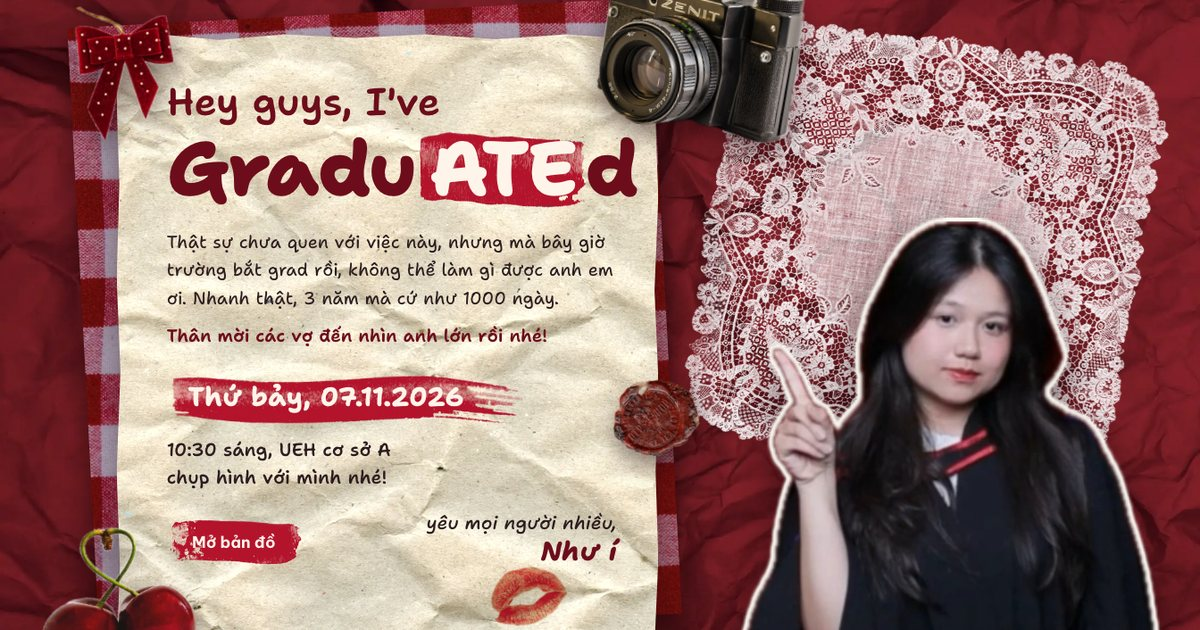
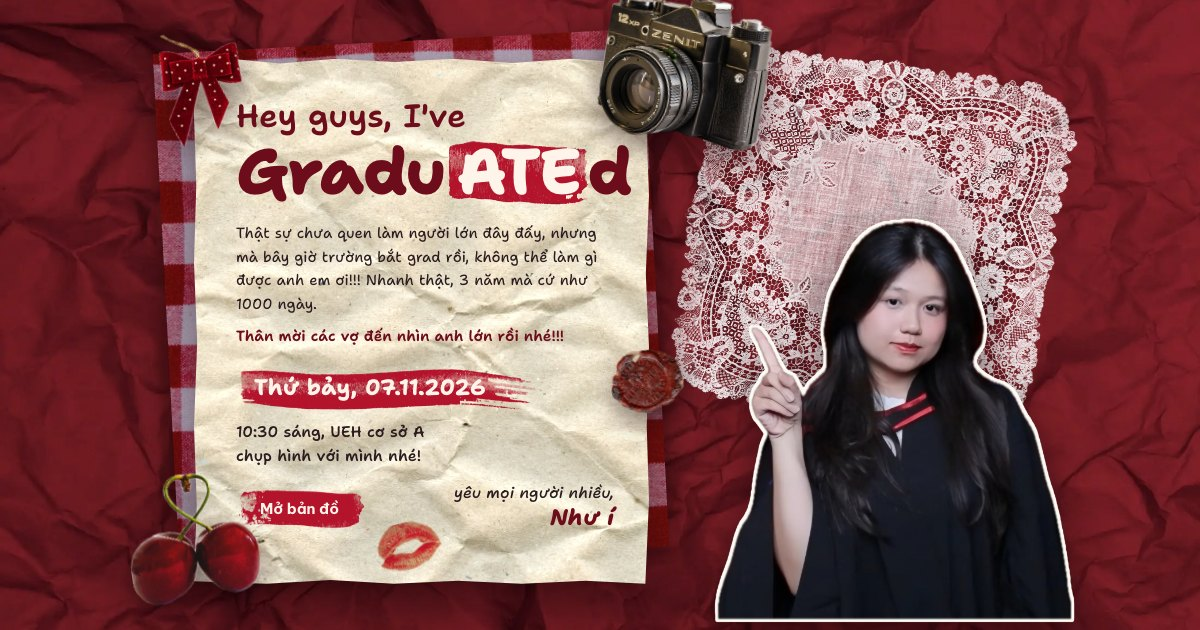
Sharper portrait, SQLite guestbook, and the client's new copy
- Guestbook now saves to a Cloudflare Worker + D1 (SQLite) instead of a Google Sheet
- Portrait re-cut from a 4x upscale with a baked-in white sticker border
- Copy updated from the 22.10 doc edit; friends' photos moved to the clothesline
- Footer credits and cherries removed

diff --git a/index.html b/index.html
@@ -36,8 +36,8 @@
             <span class="hero__hey">Hey guys, I've</span>
             <span class="hero__grad">Gradu<span class="brush-ate">ATE</span>d</span>
           </h1>
-          <p class="hero__note">Thật sự chưa quen với việc này, nhưng mà bây giờ trường bắt grad rồi, không thể làm gì được anh em ơi. Nhanh thật, 3 năm mà cứ như 1000 ngày.</p>
-          <p class="hero__invite">Thân mời các vợ đến nhìn anh lớn rồi nhé!</p>
+          <p class="hero__note">Thật sự chưa quen làm người lớn đây đấy, nhưng mà bây giờ trường bắt grad rồi, không thể làm gì được anh em ơi!!! Nhanh thật, 3 năm mà cứ như 1000 ngày.</p>
+          <p class="hero__invite">Thân mời các vợ đến nhìn anh lớn rồi nhé!!!</p>
           <p class="hero__date"><span class="brush-long">Thứ bảy, 07.11.2026</span></p>
           <p class="hero__when">10:30 sáng, UEH cơ sở A<br>chụp hình với mình nhé!</p>
           <div class="hero__foot">
@@ -53,7 +53,7 @@
       </div>
       <div class="hero__portrait">
         <img class="hero__lace" src="img/lace.webp" alt="" width="1000" height="946">
-        <img class="hero__sticker sticker" src="img/nhuy-cutout.webp" alt="Như í mặc áo cử nhân, chỉ tay lên" width="517" height="582">
+        <img class="hero__sticker sticker" src="img/nhuy-cutout.webp" alt="Như í mặc áo cử nhân, chỉ tay lên" width="1266" height="1422">
       </div>
     </div>
   </header>
@@ -63,7 +63,7 @@
     <div class="memories__track">
       <header class="memories__head">
         <h2 id="mem-title" class="memories__title">Nhớ lắm…</h2>
-        <p class="memories__lead">Thời gian đi học chắc được 1 năm, vậy mà cũng grad rồi. Chất không các vợ, ahihi.</p>
+        <p class="memories__lead">Thời gian đi học chắc được 1 năm, vậy mà anh cũng grad rồi. Chất không các vợ, yeyeyeye!</p>
       </header>
       <div class="line-scroll" tabindex="0" role="region" aria-label="Những điều Như í nhớ, kèm ảnh photobooth">
       <ul class="line">
@@ -76,7 +76,7 @@
         </li>
         <li class="hang hang--card hang--cord" style="--d: 6">
           <img class="peg" src="img/peg-3.webp" alt="" width="92" height="300">
-          <div class="card paper-cream"><p>Nhớ lắm mỗi thứ hai và thứ tư chạy đôn chạy đáo giữa 29 Lê Duẩn với 196 Trần Quang Khải</p></div>
+          <div class="card paper-cream"><p>Nhớ lắm mỗi lần cúp học đi làm (hoặc chơi)</p></div>
         </li>
         <li class="hang hang--booth">
           <img class="peg" src="img/peg-2.webp" alt="" width="135" height="300">
@@ -94,6 +94,10 @@
         </li>
         <li class="hang hang--tag hang--cord" style="--d: 6">
           <div class="tag"><p><span class="tag__l1">Nhớ lắm</span> <span class="tag__l2">bánh mì cổng trường</span></p></div>
+        </li>
+        <li class="hang hang--polaroid">
+          <img class="peg" src="img/peg-2.webp" alt="" width="135" height="300">
+          <div class="swing"><figure class="polaroid"><img src="img/crew-minnie.webp" alt="Như í và bạn bè đeo bờm Minnie, vương miện, tạo dáng trái tim" width="1200" height="798" loading="lazy"></figure></div>
         </li>
         <li class="hang hang--strip">
           <img class="peg" src="img/peg-1.webp" alt="" width="132" height="300">
@@ -114,11 +118,16 @@
           <img class="peg" src="img/peg-3.webp" alt="" width="92" height="300">
           <div class="card paper-cream"><p>Nhớ lắm những anh em đã điểm danh dùm bé</p></div>
         </li>
+        <li class="hang hang--polaroid">
+          <img class="peg" src="img/peg-2.webp" alt="" width="135" height="300">
+          <div class="swing"><figure class="polaroid"><img src="img/night-five.webp" alt="Năm bạn giơ tay chữ V vào buổi tối" width="1200" height="674" loading="lazy"></figure></div>
+        </li>
         <li class="hang hang--card hang--cord hang--finale" style="--d: 3">
           <img class="peg" src="img/peg-1.webp" alt="" width="132" height="300">
           <div class="card card--lined card--big">
             <p>Nhớ lắm những người đã đồng hành cùng em qua từng chapter trong hành trình này.</p>
-            <p class="card__love"><span class="brush-long">Em thật sự rất yêu mọi người, hihi</span></p>
+            <p class="card__love"><span class="brush-long">Em thật sự rất yêu mọi người, hihihaha</span></p>
+            <p class="card__aside">ngày không meta</p>
           </div>
         </li>
       </ul>
@@ -134,30 +143,31 @@
         <div class="thanks__letter" data-reveal>
           <div class="sheet" aria-hidden="true"><div class="sheet__paper paper-cream deckle"></div></div>
           <div class="thanks__copy">
-            <p>Well, thật ra lúc đầu lên đại học mình không expect sẽ có thêm được nhiều bạn thân, vì hết 3 năm maybe rồi chúng ta sẽ không còn nói chuyện với nhau nữa.</p>
-            <p>Nhưng mà well, looking back, mình đã có nhiều mối quan hệ rất chất đấy nhé. Thật lòng em/mình rất rất là quý mọi người luôn ấy.</p>
+            <p>Well, thật ra lúc đầu lên đại học mình không expect sẽ có thêm được nhiều bạn thân, vì mình nghĩ hết 3 năm maybe rồi ai về nhà nấy, mỗi người một nơi đi.</p>
+            <p>But… well, looking back, mình đã có nhiều mối quan hệ rất chất đấy nhé. Thật lòng em/mình rất rất là quý mọi người lắm lắm luôn í. Cảm ơn mọi người đã luôn giúp đỡ và yêu thương em.</p>
+            <p>Tuổi 20 mình đã từng viết “my greatest wealth in life is being loved”, và tuổi 21, trộm vía, mình vẫn thấy nó đúng quá à.</p>
             <p>Cảm ơn những người dưới đây, và rất rất nhiều người bạn khác đã làm nên hành trình này với em.</p>
-            <p class="thanks__last">Em thật sự rất rất biết ơn mọi người nhiều nhiều lắm!</p>
+            <p class="thanks__last">I'm fucking grateful!</p>
           </div>
           <img class="thanks__bow obj" src="img/bow-velvet-2.webp" alt="" width="295" height="380" loading="lazy">
         </div>
-        <div class="thanks__photos" data-reveal>
-          <figure class="polaroid polaroid--a"><img src="img/crew-minnie.webp" alt="Như í và bạn bè đeo bờm Minnie, vương miện, tạo dáng trái tim" width="1200" height="798" loading="lazy"></figure>
-          <figure class="polaroid polaroid--b"><img src="img/night-five.webp" alt="Năm bạn giơ tay chữ V vào buổi tối" width="1200" height="674" loading="lazy"></figure>
+        <div class="thanks__keepsake" data-reveal>
+          <figure class="polaroid thanks__self"><img src="img/photo-portrait.webp" alt="Như í mặc áo cử nhân, chỉ tay lên" width="1017" height="1389" loading="lazy"></figure>
           <img class="thanks__cherries obj" src="img/cherries.webp" alt="" width="265" height="420" loading="lazy">
           <img class="thanks__konica obj" src="img/camera-konica.webp" alt="" width="385" height="520" loading="lazy">
         </div>
       </div>
       <ul class="people" aria-label="Những người Như í muốn cảm ơn">
-        <li class="note note--kraft" data-reveal><h3>Các gia đình</h3><p>Mí Mí và Wí Wí</p></li>
-        <li class="note note--cream" data-reveal><h3>Các bạn yêu nhóm Đà Lạt</h3><p>Su, Wan, Vjt, Hằng</p></li>
-        <li class="note note--lined" data-reveal><h3>Anh em PMK</h3><p>Trúc, Tkhoa, Bthu, Vythu, Tđoan, Kathy</p></li>
+        <li class="note note--white" data-reveal><h3>Ba mẹ</h3><p>và my thằng anh</p></li>
+        <li class="note note--kraft" data-reveal><h3>Gia đình</h3><p>Mí Mí và Wí Wí</p></li>
+        <li class="note note--cream" data-reveal><h3>Các bạn yêu nhóm 6 và ồn</h3><p>Su, Wan, Vjt, Hằng</p></li>
+        <li class="note note--lined" data-reveal><h3>Anh em PMK chất</h3><p>Trúc, Tkhoa, Bthu, Vythu, Tđoan, Kathy</p></li>
         <li class="note note--white" data-reveal><h3>Nhóm anh chị khỉ già</h3><p>chị Băng, chị Thảo, anh Nam</p></li>
         <li class="note note--cream" data-reveal><h3>VL yêu</h3><p>HAT, cô Vanh, bé Su, bé Nhi</p></li>
         <li class="note note--kraft" data-reveal><h3>29 NVM</h3><p>anh Nguyên, chị Bi yêu, Thuý Vi, chị Lanhh</p></li>
         <li class="note note--white" data-reveal><h3>Hội bịp thủ</h3></li>
         <li class="note note--lined" data-reveal><h3>Anh coder ở công ty S</h3></li>
-        <li class="note note--cream" data-reveal><h3>Anh chị đồng nghiệp</h3><p>ở xí nghiệp S, W&nbsp;&amp;&nbsp;P</p></li>
+        <li class="note note--cream" data-reveal><h3>Anh chị và các bạn đồng nghiệp</h3><p>ở xí nghiệp S, W&nbsp;&amp;&nbsp;P</p></li>
         <li class="note note--kraft" data-reveal><h3>Nhà Trọ Họ Nguyễn</h3></li>
       </ul>
     </div>
@@ -168,7 +178,7 @@
     <div class="wrap invite__grid">
       <div class="invite__camera" data-reveal>
         <img class="invite__lace" src="img/lace.webp" alt="" width="1000" height="946" loading="lazy">
-        <figure class="invite__print polaroid"><img src="img/photo-portrait.webp" alt="Ảnh Như í mặc áo cử nhân trước rèm đỏ" width="670" height="922" loading="lazy"></figure>
+        <figure class="invite__print polaroid"><img src="img/photo-portrait.webp" alt="Ảnh Như í mặc áo cử nhân trước rèm đỏ" width="1017" height="1389" loading="lazy"></figure>
         <img class="invite__polaroid-cam" src="img/camera-polaroid.webp" alt="Máy ảnh Polaroid đời cũ" width="371" height="463" loading="lazy">
         <img class="invite__bow obj" src="img/bow-velvet.webp" alt="" width="291" height="380" loading="lazy">
       </div>
@@ -176,7 +186,7 @@
         <div class="sheet" aria-hidden="true"><div class="sheet__paper paper-cream deckle"></div></div>
         <div class="invite__copy">
           <h2 id="invite-title" class="invite__title">Thân mời các vợ</h2>
-          <p class="invite__sub">đến nhìn anh lớn rồi nhé!</p>
+          <p class="invite__sub">đến nhìn anh lớn rồi nhé!!!</p>
           <p class="invite__date"><span class="brush-long">Thứ bảy, 07.11.2026</span></p>
           <dl class="invite__facts">
             <div><dt>Giờ</dt><dd>10:30 sáng</dd></div>
@@ -199,7 +209,7 @@
   <section class="guestbook" id="luu-but" aria-labelledby="gb-title">
     <div class="wrap">
       <h2 id="gb-title" class="section-title guestbook__title"><span class="nowrap">Grad-I-<span class="brush-cream brush-cream--solid">ATE</span> and me</span> <span class="nowrap">Glad-U-Write</span></h2>
-      <p class="guestbook__lead">Hmm, để save the date thì mọi người có thể freely để lại những câu chữ yêu thương cho í ở đây nhé.</p>
+      <p class="guestbook__lead">Em ídapoet mời các anh em mỗi người để lại cho em một lời nhắn ở đây nhé! Yêu và quý lắm đấy, yeyeye.</p>
       <div class="guestbook__grid">
         <form class="gb-form" id="gb-form" novalidate data-reveal>
           <div class="sheet" aria-hidden="true"><div class="sheet__paper lined deckle-top"></div></div>
@@ -236,8 +246,6 @@
 <footer class="footer">
   <div class="wrap footer__inner">
     <p class="footer__love">Yêu mọi người nhiều nhiều</p>
-    <img class="footer__cherries" src="img/cherries-heart.webp" alt="" width="520" height="509" loading="lazy">
-    <p class="footer__credits">Ảnh đồ vật thật từ Pexels và Wikimedia Commons. Máy Polaroid: Jacek Halicki, CC BY-SA 4.0. Tem Sydney 1932: TrimmerinWiki, CC BY-SA 4.0. Khăn ren, sáp niêm phong: public domain.</p>
   </div>
 </footer>
 

diff --git a/css/styles.css b/css/styles.css
@@ -54,9 +54,8 @@ a { color: inherit; }
   clip-path: polygon(0 1.4%, 4% 0.4%, 8% 1.3%, 12% 0.2%, 16% 1.2%, 20% 0.4%, 24% 1.4%, 28% 0.3%, 32% 1.2%, 36% 0.2%, 40% 1.3%, 44% 0.4%, 48% 1.2%, 52% 0.2%, 56% 1.4%, 60% 0.3%, 64% 1.2%, 68% 0.4%, 72% 1.3%, 76% 0.2%, 80% 1.2%, 84% 0.4%, 88% 1.4%, 92% 0.3%, 96% 1.2%, 100% 0.4%, 100% 100%, 0 100%);
 }
 .obj { position: absolute; height: auto; pointer-events: none; filter: drop-shadow(0 12px 14px var(--shade)); }
-.sticker {
-  filter: drop-shadow(4px 0 0 #fdfaf4) drop-shadow(-4px 0 0 #fdfaf4) drop-shadow(0 4px 0 #fdfaf4) drop-shadow(0 -4px 0 #fdfaf4) drop-shadow(0 18px 22px rgba(20, 0, 4, 0.6));
-}
+/* The white die-cut border is baked into the sticker image; CSS only adds the shadow. */
+.sticker { filter: drop-shadow(0 18px 22px rgba(20, 0, 4, 0.6)); }
 
 /* Real ink strokes (scanned brush-pen marks, recoloured) */
 .brush-ate {
@@ -130,8 +129,8 @@ a { color: inherit; }
 .hero__title { margin: 0; color: var(--maroon); font-family: var(--hand); }
 .hero__hey { display: block; font-weight: 600; font-size: 28px; line-height: 1.1; }
 .hero__grad { display: block; margin-top: 2px; font-weight: 800; font-size: clamp(38px, 12vw, 50px); line-height: 1.1; letter-spacing: -0.02em; white-space: nowrap; }
-.hero__note { margin: 14px 0 0; font-weight: 450; font-size: 15px; line-height: 1.6; }
-.hero__invite { margin: 8px 0 0; font-weight: 600; font-size: 15px; line-height: 1.6; color: var(--maroon); }
+.hero__note { margin: 14px 0 0; font-weight: 450; font-size: 15px; line-height: 1.6; text-wrap: pretty; }
+.hero__invite { margin: 8px 0 0; font-weight: 600; font-size: 15px; line-height: 1.6; color: var(--maroon); text-wrap: balance; }
 .hero__date { margin: 14px 0 0; font-weight: 750; font-size: 21px; line-height: 1.15; }
 .hero__when { margin: 6px 0 0; font-weight: 550; font-size: 15.5px; line-height: 1.55; }
 .hero__foot { display: flex; align-items: flex-end; justify-content: space-between; gap: 12px; margin-top: 16px; }
@@ -237,6 +236,10 @@ a { color: inherit; }
 .card p { margin: 0; font: 600 18px/1.5 var(--hand); }
 .card--big { width: 290px; }
 .card__love { margin-top: 16px !important; font-size: 19px !important; font-weight: 750 !important; }
+/* This line wraps, so each line gets its own stroke. */
+.card__love { line-height: 2.25 !important; }
+.card__love .brush-long { display: inline; padding: 0.32em 0.9em 0.38em 1em; background-image: url(../img/brush-bold.webp); -webkit-box-decoration-break: clone; box-decoration-break: clone; }
+.card__aside { margin-top: 10px !important; font-size: 16px !important; font-weight: 500 !important; color: var(--maroon); }
 .hang--polaroid .polaroid { width: 280px; }
 
 /* ---------- 3. Thank you ---------- */
@@ -247,12 +250,9 @@ a { color: inherit; }
 .thanks__copy p { margin: 0 0 14px; }
 .thanks__last { font-weight: 700; color: var(--maroon); margin-bottom: 0 !important; }
 .thanks__bow { right: -14px; top: -46px; width: 60px; rotate: 16deg; }
-.thanks__photos { position: relative; height: 400px; max-width: 460px; width: 100%; margin-inline: auto; }
-.thanks__photos .polaroid { position: absolute; transition: translate 0.4s var(--ease), rotate 0.4s var(--ease); }
-.thanks__photos .polaroid img { aspect-ratio: 4 / 3; object-fit: cover; }
-.polaroid--a { left: 0; top: 8px; width: 74%; rotate: -5deg; }
-.polaroid--b { right: 0; top: 46%; width: 72%; rotate: 4deg; }
-.thanks__photos .polaroid:hover { translate: 0 -6px; rotate: 0deg; z-index: 2; }
+.thanks__keepsake { position: relative; width: min(76%, 320px); margin: 12px auto 0; }
+.thanks__self { width: 100%; rotate: -3deg; }
+.thanks__self img { aspect-ratio: 4 / 5; object-fit: cover; object-position: 50% 88%; }
 .thanks__cherries { left: -8px; bottom: -26px; width: 66px; rotate: -12deg; z-index: 3; }
 .thanks__konica { right: -8px; top: -30px; width: 92px; rotate: 12deg; z-index: 3; }
 
@@ -358,8 +358,6 @@ a { color: inherit; }
 /* ---------- Footer ---------- */
 .footer { padding: 36px 0 56px; text-align: center; }
 .footer__love { margin: 0; font: 800 38px/1.1 var(--hand); color: var(--cream); }
-.footer__cherries { display: block; width: 92px; height: auto; margin: 12px auto 0; rotate: -6deg; filter: drop-shadow(0 10px 12px var(--shade)); }
-.footer__credits { max-width: 640px; margin: 26px auto 0; font: 500 13px/1.6 var(--ui); color: #f0cfc6; }
 
 /* ---------- Motion ---------- */
 .js .hero__letter > .sheet,
@@ -411,7 +409,7 @@ a { color: inherit; }
   .hero__foot .btn-brush { font-size: max(15px, calc(19 * var(--u))); min-height: calc(66 * var(--u)); }
   .hero__sign { font-size: calc(22 * var(--u)); }
   .hero__sign span { font-size: calc(32 * var(--u)); }
-  .hero__lips { display: block; left: calc(448 * var(--u)); top: calc(640 * var(--u)); width: calc(92 * var(--u)); rotate: -14deg; opacity: 0.9; mix-blend-mode: multiply; filter: none; }
+  .hero__lips { display: block; left: calc(262 * var(--u)); top: calc(662 * var(--u)); width: calc(92 * var(--u)); rotate: -14deg; opacity: 0.9; mix-blend-mode: multiply; filter: none; }
   .hero__bow { left: calc(-50 * var(--u)); top: calc(-48 * var(--u)); width: calc(124 * var(--u)); }
   .hero__zenit { left: calc(584 * var(--u)); right: auto; top: calc(-90 * var(--u)); width: calc(236 * var(--u)); rotate: 9deg; }
   .hero__seal { left: calc(594 * var(--u)); top: calc(414 * var(--u)); width: calc(104 * var(--u)); }
@@ -441,6 +439,7 @@ a { color: inherit; }
   .card p { font-size: clamp(18px, 2.6svh, 26px); }
   .card--big { width: 42svh; }
   .card__love { font-size: clamp(19px, 2.7svh, 27px) !important; }
+  .card__aside { font-size: clamp(16px, 2.1svh, 21px) !important; }
   .card--lined { background-size: 760px auto; background-position: 0 -4px; }
   .hang--polaroid .polaroid { width: 42svh; }
 
@@ -449,7 +448,7 @@ a { color: inherit; }
   .thanks__copy { padding: 58px 60px 52px; font-size: 20px; line-height: 1.75; }
   .thanks__copy p { margin-bottom: 18px; }
   .thanks__bow { width: 108px; right: -30px; top: -50px; }
-  .thanks__photos { height: 560px; max-width: none; }
+  .thanks__keepsake { width: min(100%, 400px); margin: 0 auto; }
   .thanks__cherries { width: 110px; left: -30px; bottom: -36px; }
   .thanks__konica { width: 150px; right: -40px; top: -60px; }
   .people { grid-template-columns: repeat(5, minmax(0, 1fr)); gap: 44px 28px; margin-top: 96px; }

diff --git a/guestbook/src/index.js b/guestbook/src/index.js
@@ -1,0 +1,64 @@
+// Lưu bút backend: a Cloudflare Worker in front of a D1 (SQLite) table.
+// GET returns the visible wishes, newest first. POST saves one wish.
+
+const ALLOWED_ORIGINS = [/^https:\/\/vominhkhoii\.github\.io$/, /^http:\/\/(localhost|127\.0\.0\.1)(:\d+)?$/];
+const MAX_PER_TEN_MINUTES = 10;
+
+function corsHeaders(request) {
+  const origin = request.headers.get('Origin') || '';
+  const allowed = ALLOWED_ORIGINS.some((re) => re.test(origin));
+  return allowed
+    ? { 'Access-Control-Allow-Origin': origin, 'Access-Control-Allow-Methods': 'GET, POST', 'Access-Control-Allow-Headers': 'Content-Type', Vary: 'Origin' }
+    : { Vary: 'Origin' };
+}
+
+function json(request, data, status = 200) {
+  return new Response(JSON.stringify(data), {
+    status,
+    headers: { 'Content-Type': 'application/json; charset=utf-8', ...corsHeaders(request) },
+  });
+}
+
+// Store a hash of the sender's IP, never the IP itself; it is only used for the rate limit.
+async function senderId(request) {
+  const ip = request.headers.get('CF-Connecting-IP') || '';
+  const digest = await crypto.subtle.digest('SHA-256', new TextEncoder().encode(`nhuy-luu-but:${ip}`));
+  return [...new Uint8Array(digest)].slice(0, 12).map((b) => b.toString(16).padStart(2, '0')).join('');
+}
+
+async function listWishes(request, env) {
+  const { results } = await env.DB.prepare(
+    'SELECT name, message, created_at AS at FROM wishes WHERE hidden = 0 ORDER BY id DESC LIMIT 300',
+  ).all();
+  return json(request, { notes: results });
+}
+
+async function addWish(request, env) {
+  let data;
+  try {
+    data = JSON.parse(await request.text());
+  } catch {
+    return json(request, { ok: false, error: 'bad-json' }, 400);
+  }
+  const name = String(data.name || '').trim().slice(0, 60);
+  const message = String(data.message || '').trim().slice(0, 1000);
+  if (!message) return json(request, { ok: false, error: 'empty' }, 400);
+
+  const sender = await senderId(request);
+  const recent = await env.DB.prepare(
+    "SELECT COUNT(*) AS n FROM wishes WHERE sender = ? AND created_at > datetime('now', '-10 minutes')",
+  ).bind(sender).first();
+  if (recent.n >= MAX_PER_TEN_MINUTES) return json(request, { ok: false, error: 'too-many' }, 429);
+
+  await env.DB.prepare('INSERT INTO wishes (name, message, sender) VALUES (?, ?, ?)').bind(name, message, sender).run();
+  return json(request, { ok: true });
+}
+
+export default {
+  async fetch(request, env) {
+    if (request.method === 'OPTIONS') return new Response(null, { status: 204, headers: corsHeaders(request) });
+    if (request.method === 'GET') return listWishes(request, env);
+    if (request.method === 'POST') return addWish(request, env);
+    return json(request, { ok: false, error: 'method' }, 405);
+  },
+};

diff --git a/js/main.js b/js/main.js
@@ -1,7 +1,5 @@
-// Paste the Google Apps Script web app URL here to turn on the shared guestbook (see apps-script/README.md).
-// While it is empty, sending a wish opens a text message to Như í instead.
-const GUESTBOOK_URL = '';
-const PHONE = '0367174803';
+// The Lưu bút backend: a Cloudflare Worker with a D1 (SQLite) table (see guestbook/README.md).
+const GUESTBOOK_URL = 'https://nhuy-luu-but.minhkhoitdn.workers.dev';
 
 const reduceMotion = window.matchMedia('(prefers-reduced-motion: reduce)');
 
@@ -87,7 +85,6 @@ function clearSkeletons() {
 }
 
 async function loadWishes() {
-  if (!GUESTBOOK_URL) return;
   showSkeletons(3);
   try {
     const res = await fetch(GUESTBOOK_URL);
@@ -121,21 +118,11 @@ form.addEventListener('submit', async (event) => {
     return;
   }
 
-  if (!GUESTBOOK_URL) {
-    const body = encodeURIComponent(`${message}\n- ${name || 'Ẩn danh'}`);
-    const link = document.createElement('a');
-    link.href = `sms:${PHONE}?&body=${body}`;
-    link.textContent = 'bấm vào đây';
-    statusEl.replaceChildren('Đang mở tin nhắn gửi í. Không mở được thì ', link, ' nhé.');
-    window.location.href = link.href;
-    return;
-  }
-
   const button = form.querySelector('button[type="submit"]');
   button.disabled = true;
   statusEl.textContent = 'Đang gửi…';
   try {
-    // A text/plain body keeps this a simple request, which Apps Script accepts without a preflight.
+    // A text/plain body keeps this a simple request, so the browser skips the CORS preflight.
     const res = await fetch(GUESTBOOK_URL, { method: 'POST', body: JSON.stringify({ name, message }) });
     const data = await res.json();
     if (!data.ok) throw new Error(data.error || 'failed');
@@ -143,8 +130,10 @@ form.addEventListener('submit', async (event) => {
     list.prepend(wishEl({ name, message }, !reduceMotion.matches));
     form.reset();
     statusEl.textContent = 'Gửi rồi nè, cảm ơn nhiều nha!';
-  } catch {
-    statusEl.textContent = 'Gửi chưa được, thử lại giúp í nha.';
+  } catch (err) {
+    statusEl.textContent = err.message === 'too-many'
+      ? 'Gửi nhiều quá rồi nè, đợi vài phút rồi gửi tiếp nha.'
+      : 'Gửi chưa được, thử lại giúp í nha.';
   } finally {
     button.disabled = false;
   }

diff --git a/guestbook/README.md b/guestbook/README.md
@@ -1,0 +1,26 @@
+# Lưu bút backend (Cloudflare Worker + D1)
+
+The guestbook form posts to a small Cloudflare Worker, which saves each wish in a D1 database (SQLite). The site reads the wishes back from the same URL.
+
+- Live URL: https://nhuy-luu-but.minhkhoitdn.workers.dev (already set as `GUESTBOOK_URL` in `js/main.js`)
+- Database: `nhuy-luu-but`, table `wishes`
+- Only the GitHub Pages site (and localhost) can read or post from a browser. One sender can post at most 10 wishes per 10 minutes.
+
+## Reading or hiding wishes
+
+Open the Cloudflare dashboard → **Storage & Databases → D1 → nhuy-luu-but → Console**, or run the same SQL from this folder:
+
+```sh
+npx wrangler d1 execute nhuy-luu-but --remote --command "SELECT id, name, message, created_at FROM wishes ORDER BY id DESC"
+npx wrangler d1 execute nhuy-luu-but --remote --command "UPDATE wishes SET hidden = 1 WHERE id = 12"
+```
+
+A hidden wish stays in the database but no longer shows on the page.
+
+## Changing the worker
+
+Edit `src/index.js`, then run `npx wrangler deploy` from this folder. `schema.sql` creates the table on a new database:
+
+```sh
+npx wrangler d1 execute nhuy-luu-but --remote --file schema.sql
+```
